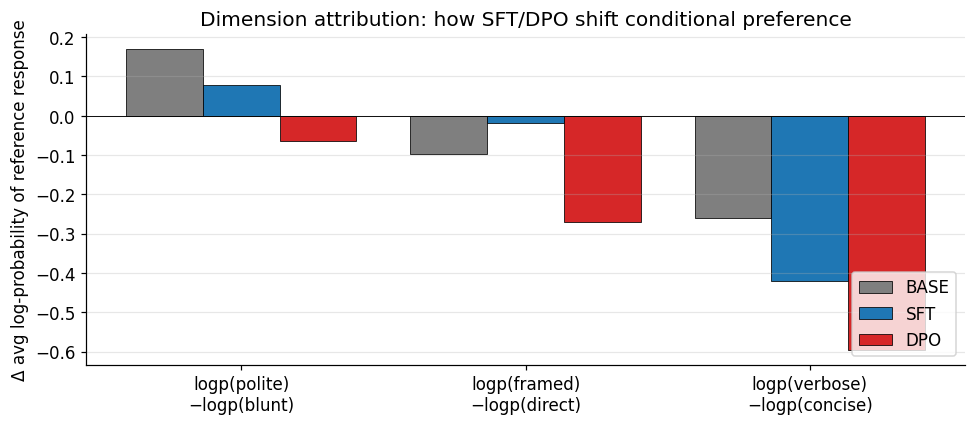
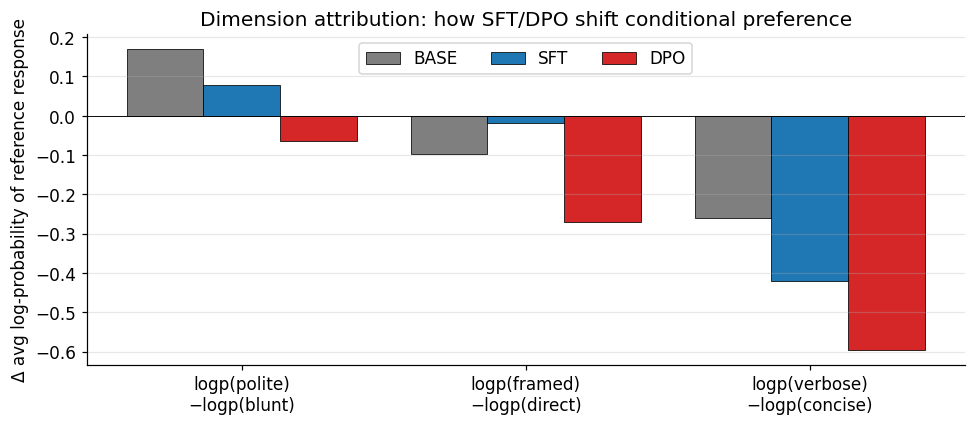
plot_results: fix fig2/fig3 text-graphic overlaps, read JSON as UTF-8
- fig2: CI labels moved past whisker end with white bbox, so neither
  the error bar nor the 0.5 dashed line strikes through the numbers
- fig3: legend lower-right -> top-center 3-col row, clear of all bars
- all read_text() now encoding=utf-8 (Windows cp1252 default crashed
  on Chinese-content JSON); regenerate fig2/fig3

diff --git a/eval/plot_results.py b/eval/plot_results.py
@@ -30,7 +30,7 @@ plt.rcParams.update({
 
 def parse_dpo_log(log_path: Path) -> dict:
     """Pull (step, loss, margins, accuracies) tuples from training log."""
-    text = log_path.read_text(errors="ignore") if log_path.exists() else ""
+    text = log_path.read_text(encoding="utf-8", errors="ignore") if log_path.exists() else ""
     rows = []
     for m in re.finditer(
         r"\{'loss': '([^']+)', 'grad_norm': '[^']+', 'learning_rate': '[^']+', "
@@ -82,7 +82,7 @@ def fig_dpo_training(rows, out: Path):
 
 
 def fig_winrates_ci(winrates_path: Path, out: Path):
-    data = json.loads(winrates_path.read_text())["overall"]
+    data = json.loads(winrates_path.read_text(encoding="utf-8"))["overall"]
     pairs = [
         ("base_vs_sft", "BASE > SFT", "SFT"),
         ("sft_vs_dpo", "SFT > DPO", "DPO"),
@@ -108,8 +108,9 @@ def fig_winrates_ci(winrates_path: Path, out: Path):
     ax.set_xlabel("Win rate of model A (95% bootstrap CI, n=40 each)")
     ax.set_title("Pairwise win rates judged by DeepSeek-chat")
     for i, (m, l, h) in enumerate(zip(means, lows, highs)):
-        ax.text(m + 0.02, i, f"{m:.3f} [{l:.3f}, {h:.3f}]",
-                va="center", fontsize=10)
+        ax.text(h + 0.02, i, f"{m:.3f} [{l:.3f}, {h:.3f}]",
+                va="center", fontsize=10,
+                bbox=dict(facecolor="white", edgecolor="none", pad=1.5))
     ax.invert_yaxis()
     plt.tight_layout()
     plt.savefig(out, bbox_inches="tight")
@@ -118,7 +119,7 @@ def fig_winrates_ci(winrates_path: Path, out: Path):
 
 
 def fig_dimension_shift(dim_path: Path, out: Path):
-    results = json.loads(dim_path.read_text())
+    results = json.loads(dim_path.read_text(encoding="utf-8"))
     from collections import defaultdict
     by = defaultdict(list)
     for r in results:
@@ -153,7 +154,7 @@ def fig_dimension_shift(dim_path: Path, out: Path):
     ax.set_xticklabels([labels[a] for a in axes_list])
     ax.set_ylabel("Δ avg log-probability of reference response")
     ax.set_title("Dimension attribution: how SFT/DPO shift conditional preference")
-    ax.legend(loc="lower right")
+    ax.legend(loc="upper center", ncol=3)
     ax.grid(axis="y", alpha=0.3)
     plt.tight_layout()
     plt.savefig(out, bbox_inches="tight")
@@ -162,7 +163,7 @@ def fig_dimension_shift(dim_path: Path, out: Path):
 
 
 def fig_jsd(jsd_path: Path, out: Path):
-    data = json.loads(jsd_path.read_text())
+    data = json.loads(jsd_path.read_text(encoding="utf-8"))
     pairs = list(data["overall"].keys())
     overall_means = [data["overall"][p]["mean"] for p in pairs]
     overall_stds = [data["overall"][p]["std"] for p in pairs]
